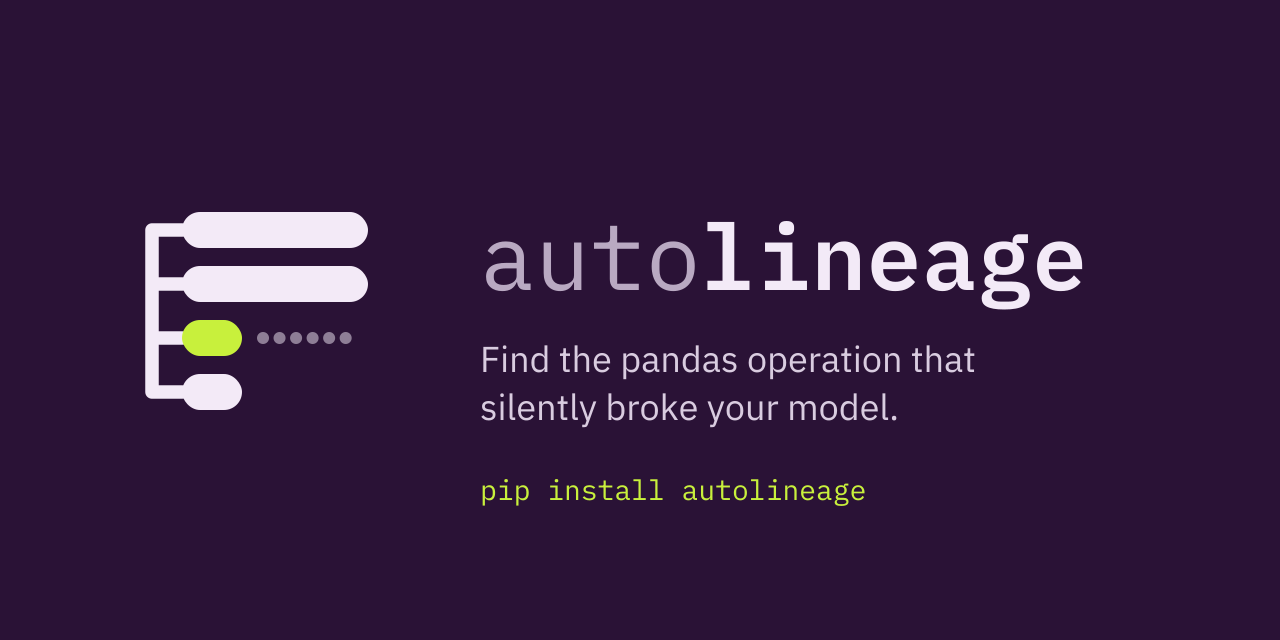
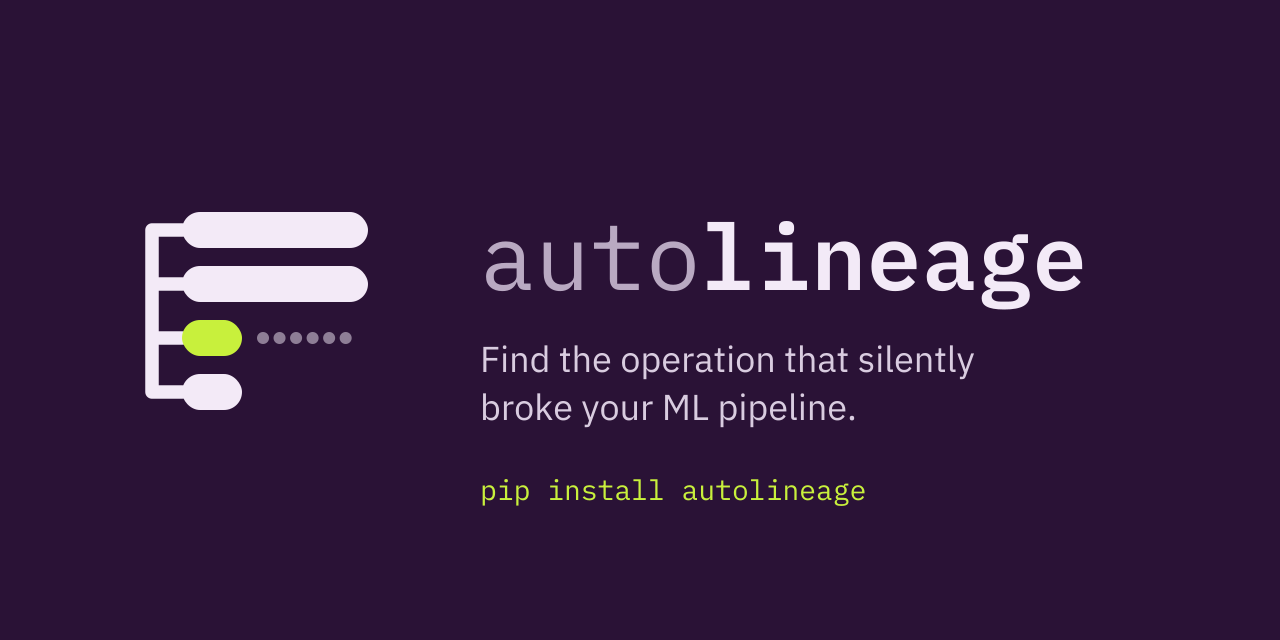
Make social-preview tagline framework-neutral
AutoLineage covers pandas, scikit-learn and PySpark; the card should not
read as a pandas-only tool. Tagline is now "Find the operation that
silently broke your ML pipeline."

Claude-Session: https://claude.ai/code/session_01Bb5PA3XLrBGbNyTNN7GFD9

Changed region(s): [[0.4688, 0.5312, 0.7812, 0.5938], [0.375, 0.625, 0.7188, 0.6562]]

diff --git a/docs/brand/make_brand.py b/docs/brand/make_brand.py
@@ -123,10 +123,10 @@ parts = [f'<rect width="1280" height="640" fill="{AUB}"/>',
 x0 = 480
 p, wa = text_path(MONO_R, "auto", 92, x0, 290, MUTED_D); parts.append(p)
 p, _ = text_path(MONO_B, "lineage", 92, x0 + wa, 290, LIGHT); parts.append(p)
-p, _ = text_path(SANS_R, "Find the pandas operation that", 36, x0, 372, "#D9CCE0"); parts.append(p)
-p, _ = text_path(SANS_R, "silently broke your model.", 36, x0, 420, "#D9CCE0"); parts.append(p)
+p, _ = text_path(SANS_R, "Find the operation that silently", 36, x0, 372, "#D9CCE0"); parts.append(p)
+p, _ = text_path(SANS_R, "broke your ML pipeline.", 36, x0, 420, "#D9CCE0"); parts.append(p)
 p, _ = text_path(MONO_R, "pip install autolineage", 28, x0, 500, LIME); parts.append(p)
-social = svg(1280, 640, "".join(parts), "AutoLineage: find the pandas operation that silently broke your model")
+social = svg(1280, 640, "".join(parts), "AutoLineage: find the operation that silently broke your ML pipeline")
 write("autolineage-social-preview.svg", social)
 png(social, "autolineage-social-preview.png", 1280, 640)
 
